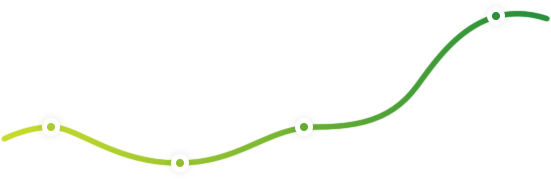
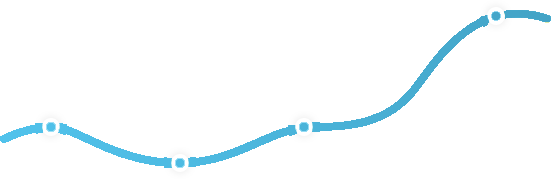
redesigning

Changed region(s): [[0.0, 0.0559, 1.0, 0.9497]]

diff --git a/esx_invest/client/html/UI.html b/esx_invest/client/html/UI.html
@@ -72,22 +72,22 @@
             <table id="companies">
                 <thead>
                     <tr>
-                        <th>Company name</th>
+                        <th>Company</th>
                         <th>Rate</th>
                     </tr>
                 </thead>
                 <tbody>
                     <tr data-name="company-1">
                         <th>Company 1</th>
-                        <th><i class="fas fa-arrow-up"></i> 1.2%</th>
+                        <th><i class="fas fa-arrow-up"></i> 1.2</th>
                     </tr>
                     <tr data-name="company-2">
                         <th>Company 2</th>
-                        <th><i class="fas fa-arrow-down"></i> 1.2%</th>
+                        <th><i class="fas fa-arrow-down"></i> 1.2</th>
                     </tr>
                     <tr data-name="company-3">
                         <th>Company 2</th>
-                        <th><i class="fas fa-circle"></i> 1.2%</th>
+                        <th><i class="fas fa-circle"></i> 1.2</th>
                     </tr>
                 </tbody>
             </table>
@@ -117,7 +117,7 @@
                 <tbody>
                     <tr>
                         <th>Company 1</th>
-                        <th><i class="fas fa-arrow-up"></i> 1.2%</th>
+                        <th><i class="fas fa-arrow-up"></i> 1.2</th>
                         <th>-</th>
                     </tr>
                 </tbody>
@@ -128,16 +128,16 @@
             <table id="sell">
                 <thead>
                     <tr>
-                        <th>Company name</th>
+                        <th>Company</th>
                         <th>Invested</th>
                         <th>Intrest</th>
                     </tr>
                 </thead>
                 <tbody>
-                    <tr data-name="company-1">
+                    <tr data-label="company-1">
                         <th>Company 1</th>
                         <th>100</th>
-                        <th><i class="fas fa-arrow-up"></i> 1.2%</th>
+                        <th><i class="fas fa-arrow-up"></i> 1.2</th>
                     </tr>
                 </tbody>
             </table>

diff --git a/esx_invest/client/html/script.js b/esx_invest/client/html/script.js
@@ -26,11 +26,11 @@ $(function() {
                 } else {
                     var icon = "fa-circle"
                 }
-                
+
                 $('#companies tbody').append(`
                     <tr data-label='${obj.label}'>
                         <th>${obj.name}</th>
-                        <th><i class='fas ${icon}'></i> ${obj.stock}%</th>
+                        <th><i class='fas ${icon}'></i> ${obj.stock}</th>
                     </tr>`)
             }
         } else if(event.data.type == "all") {
@@ -58,7 +58,7 @@ $(function() {
             var array = event.data.cache
             for (var e in array) {
                 var obj = array[e];
-
+                
                 var intrest = obj.investRate - obj.rate
                 intrest = parseFloat(intrest).toFixed(2)
                 
@@ -69,11 +69,12 @@ $(function() {
                 } else {
                     var icon = "fa-circle"
                 }
+
                 $('#sell tbody').append(`
                     <tr data-label='${obj.label}'>
                         <th>${obj.name}</th>
                         <th>${obj.amount}</th>
-                        <th><i class='fas ${icon}'></i> ${intrest}%</th>
+                        <th><i class='fas ${icon}'></i> ${intrest}</th>
                     </tr>`)
             }
         }
@@ -126,9 +127,8 @@ $('form .btn').click(function (e) {
         var trActive = $(div).find('table > tbody > .active')[0]
 
         var label = $(trActive).data("label")
-
         var rate = $(trActive).children().last().text()
-        rate = rate.slice(0, -1).substr(1)
+        rate = parseFloat(rate.slice(0, -1).substr(1))
 
         if (activeMenu == "sell") {
             $.post('http://esx_invest/sellInvestment', JSON.stringify({job: label, sellRate: rate}))

diff --git a/esx_invest/client/html/style.css b/esx_invest/client/html/style.css
@@ -125,7 +125,7 @@ button[type="submit"] {
 	color: #e5873b;
 }
 .btn-green i{
-	color: #7cb732;
+	color: #53d0ff;
 }
 .btn-grey i{
 	color: #a0a0a0;
@@ -248,13 +248,13 @@ nav{
 }
 .balance .name{
 	font-size: 25px;
-	color: #28903a;
+	color: #53d0ff;
 	margin-bottom: 5px;
     display: block;
 }
 .balance .money{
 	font-size: 60px;
-	color: #28903a;
+	color: #53d0ff;
 	font-family: "futura", sans-serif;
 }
 
@@ -387,9 +387,11 @@ tbody tr:nth-child(even) {
     color: orange;
 }
 
-table#all tbody tr th:nth-child(2)::before {
-    content: "$ ";
-    color: #28903a;
+table#all tbody tr th:nth-child(2)::after,
+table#companies tbody tr th:nth-child(2)::after,
+table#sell tbody tr th:nth-child(3)::after {
+    content: "%";
+    color: #53d0ff;
 }
 
 tbody tr:last-child th:first-child {
@@ -440,11 +442,11 @@ label{
     background-color: #eeeeee;
     border: 0;
     font-size: 50px;
-    color: #28903a;
+    color: #53d0ff;
     font-family: "futura",sans-serif;
 }
 .input-cont input::-webkit-input-placeholder {
-  color: #7cb732;
+  color: #53d0ff;
 }
 .double-input{
 	display: flex;
@@ -516,7 +518,7 @@ label{
 	transition-duration: 0.2s;
 }
 #fingerprint-content:hover{
-    border: 2px solid #7cb732;
+    border: 2px solid #53d0ff;
 }
 .fingerprint-default{
 	position: absolute;
